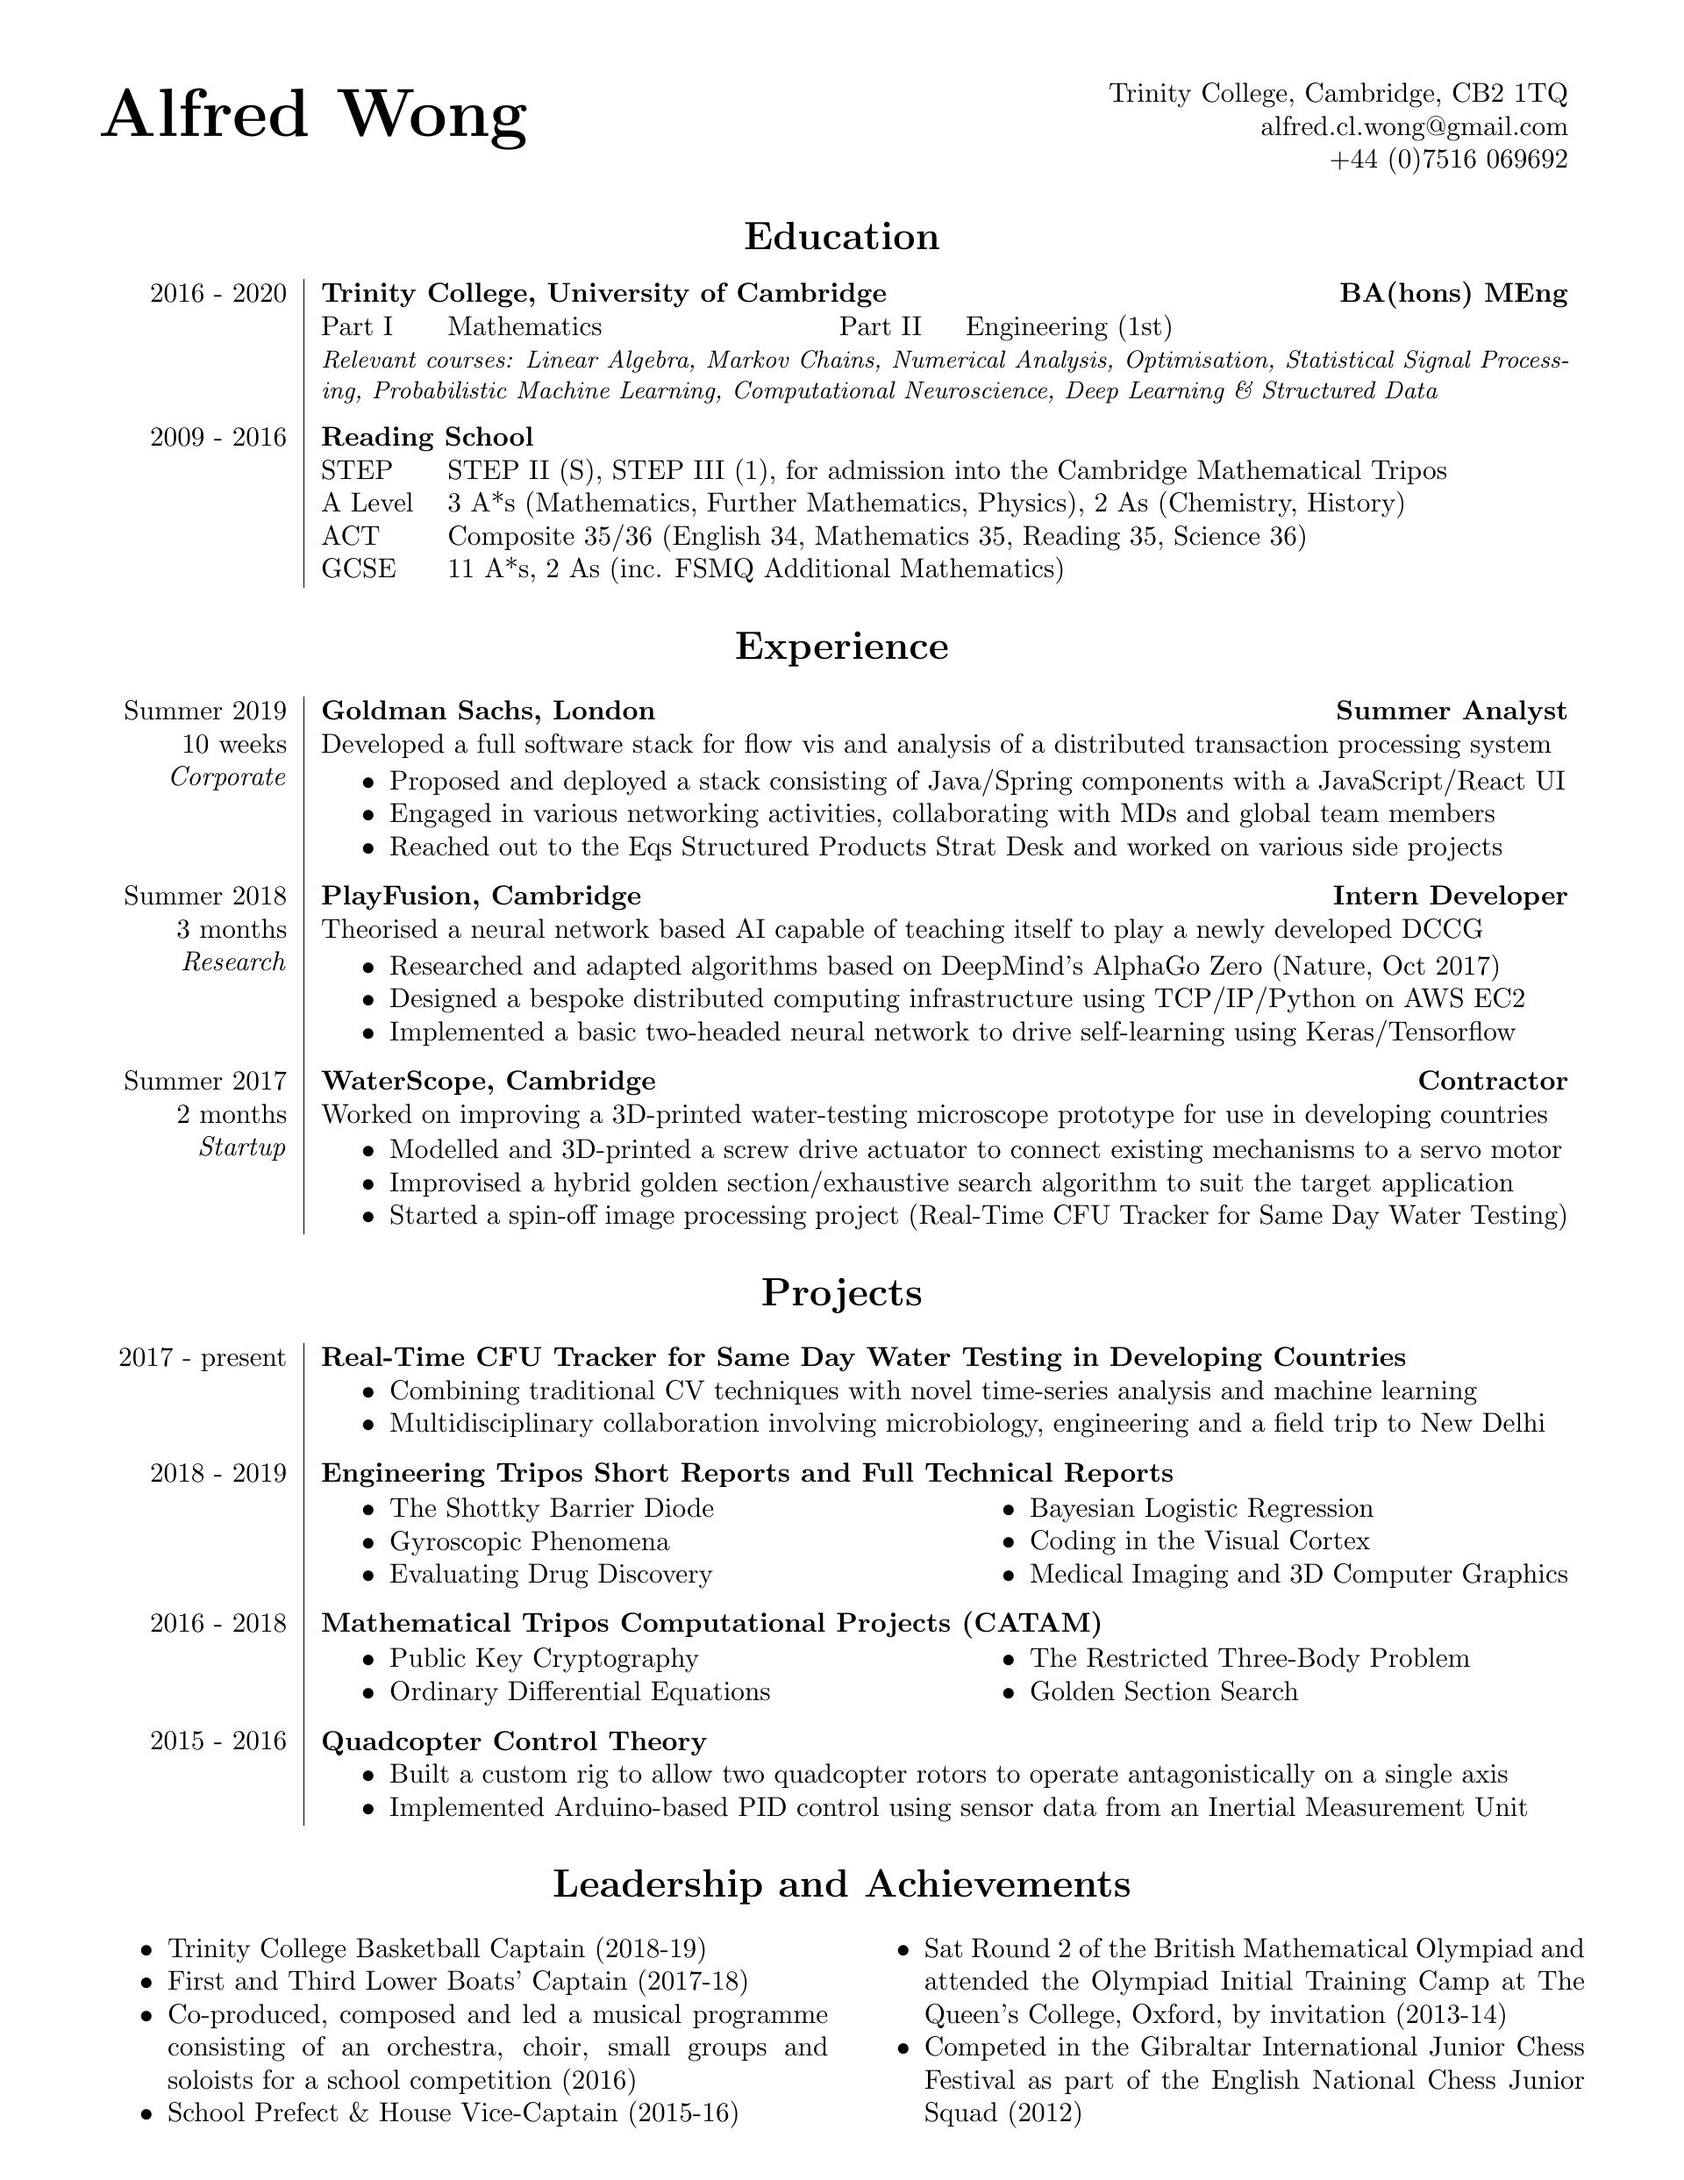
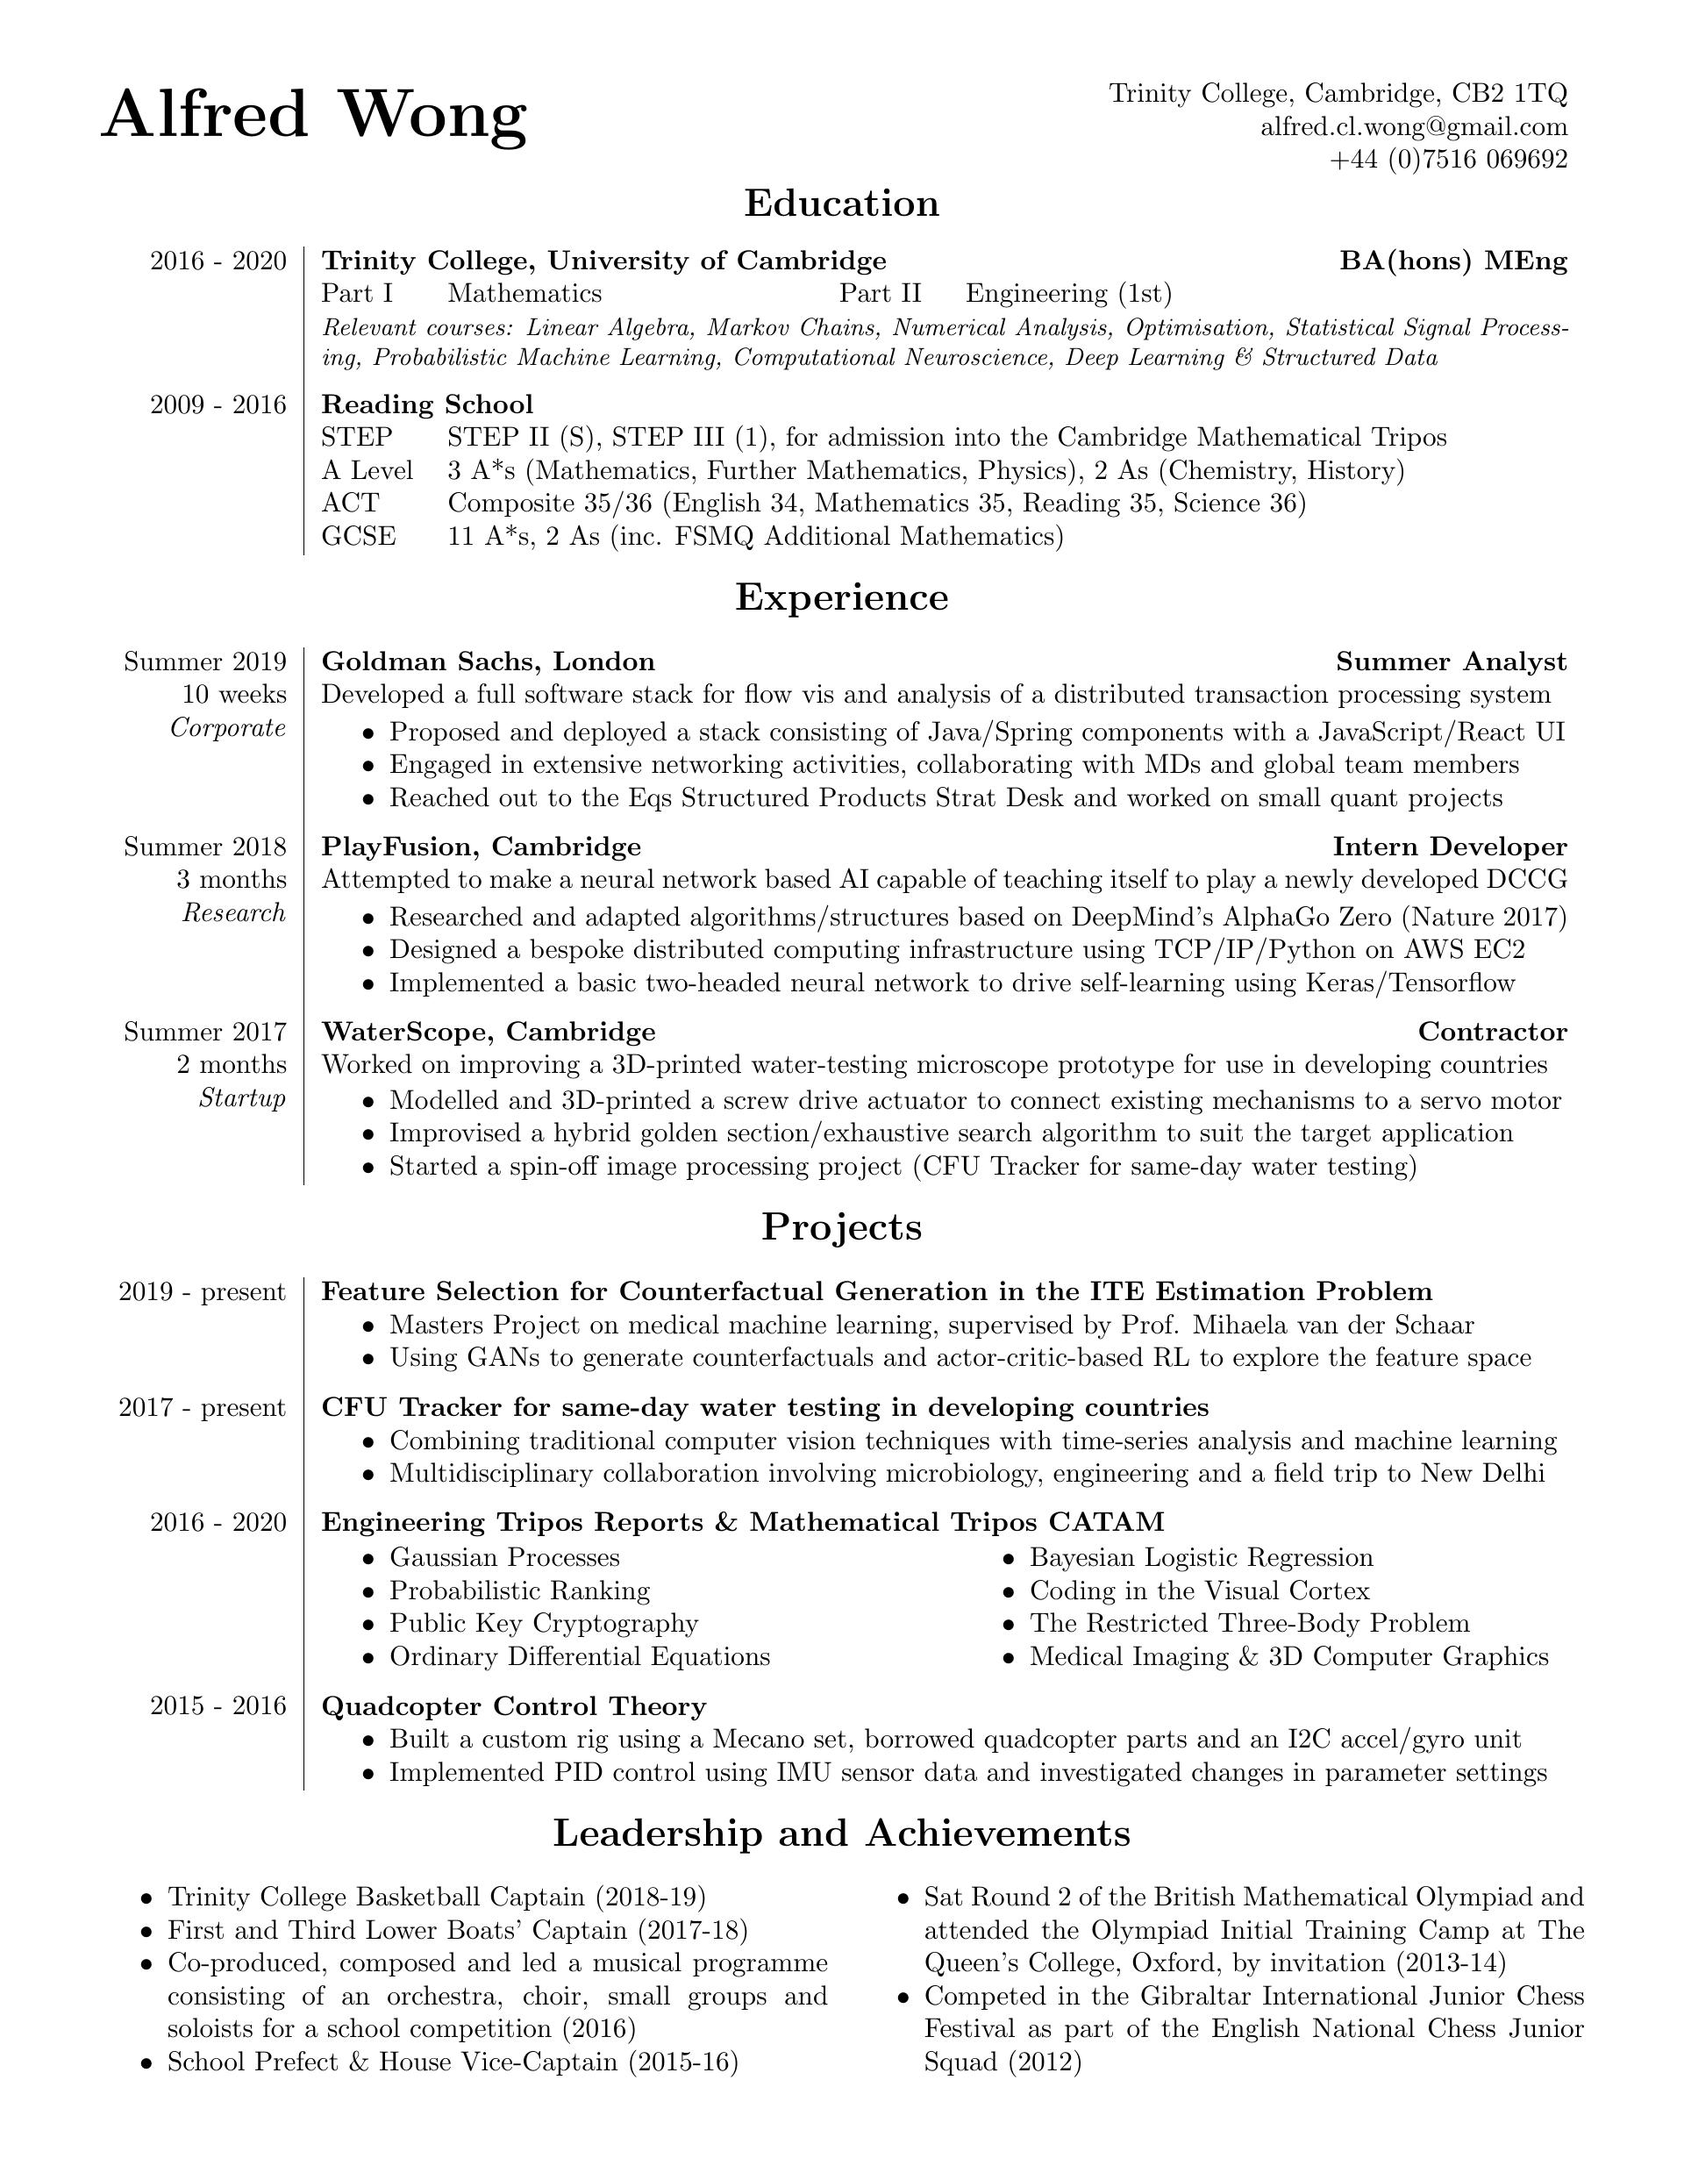
updated masters project description

diff --git a/Alfred Wong resume.tex b/Alfred Wong resume.tex
@@ -92,10 +92,10 @@ Summer 2017 & \textbf{WaterScope, Cambridge \hfill Contractor}\\
 \section*{Projects}
 \begin{tabularx}{\linewidth}{>{\raggedleft}p{2.2cm}|X X}
 2019 - present & \multicolumn{2}{p{\linegoal}}{
-    \vspace{-2.9mm}\textbf{Feature Selection for ITE Counterfactual Generation using GANs}
+    \vspace{-2.9mm}\textbf{Feature Selection for Counterfactual Generation in the ITE Estimation Problem}
     \begin{compact}
         \item Masters Project on medical machine learning, supervised by Prof. Mihaela van der Schaar
-        \item Building on existing ideas, using GANs to generate counterfactuals and NNs for feature selection
+        \item Using GANs to generate counterfactuals and actor-critic-based RL to explore the feature space
         \vspace{-.5\baselineskip}
     \end{compact}
 }\\
@@ -108,7 +108,7 @@ Summer 2017 & \textbf{WaterScope, Cambridge \hfill Contractor}\\
 		\vspace{-.5\baselineskip}
 	\end{compact}
 }\\
-2018 - 2020 & \multicolumn{2}{l}{\textbf{Engineering Tripos Reports \& Mathematical Tripos CATAM}}\\&
+2016 - 2020 & \multicolumn{2}{l}{\textbf{Engineering Tripos Reports \& Mathematical Tripos CATAM}}\\&
 \begin{compact}
 	\vspace{-.5\baselineskip}
     \item Gaussian Processes
